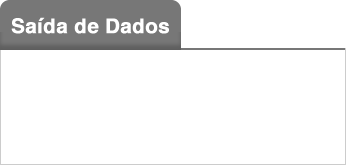
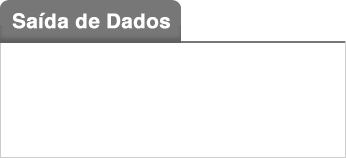
exclamação saindo de cena

Changed region(s): [[0.0289, 0.0759, 0.4913, 0.2025], [0.0, 0.2532, 1.0, 0.3038]]

diff --git a/ProjetoFinal/SpriteCondicaoNode.m b/ProjetoFinal/SpriteCondicaoNode.m
@@ -16,7 +16,7 @@
         tipoCondicao = tipo;
         [self montaSprite:tipo];
         
-        [self texturaDeVerificando:YES];
+        //[self texturaDeVerificando:YES];
     }
     return self;
 }
@@ -63,7 +63,8 @@
 
 -(void)mostraExclamacao:(BOOL)status{
     
-    if (![tipoCondicao isEqualToString:@"senao"]) { // Só adiciona exclamação caso o tipo seja diferente de "senao"
+    // Só adiciona exclamação caso o tipo seja diferente de "senao"
+    if (![tipoCondicao isEqualToString:@"senao"]) {
         if (status) {
             [self addChild:spriteExclamacao];
         }else{
@@ -81,6 +82,7 @@
     
     spriteOperador = [[SpriteOperadorCondicional alloc] initWithValores:valor1 operador:operador valor2:valor2 resultado:resultado];
     
+    spriteOperador.myDelegate = self;
     
     CGPoint posicao;
     
@@ -98,11 +100,8 @@
     
 }
 
--(void)pisca{
-    
-    //Roda a SKAction que pisca
-    
-    [self runAction:animacaoPiscar];
+-(void)verificacaoFinalizada{
+    [self mostraExclamacao:NO];
 }
 
 
@@ -117,27 +116,18 @@
 -(void)texturaDeVerificando:(BOOL)status{
     SKTexture *textura;
     
+    //VERIFICA
     if (status) {
-        if ([tipoCondicao isEqualToString:@"se"]) {
-            textura = [SKTexture textureWithImageNamed:@"se-verde.png"];
-        }else if ([tipoCondicao isEqualToString:@"senaoSe"]){
-            textura = [SKTexture textureWithImageNamed:@"senaoSe-verde.png"];
-        }else{
-            textura = [SKTexture textureWithImageNamed:@"senao-verde.png"];
-        }
+        textura = [SKTexture textureWithImageNamed:[NSString stringWithFormat:@"%@-verde.png", tipoCondicao]];
+        
     }else{
-        if ([tipoCondicao isEqualToString:@"se"]) {
-            textura = [SKTexture textureWithImageNamed:@"se-normal.png"];
-        }else if ([tipoCondicao isEqualToString:@"senaoSe"]){
-            textura = [SKTexture textureWithImageNamed:@"senaoSe-normal.png"];
-        }else{
-            textura = [SKTexture textureWithImageNamed:@"senao-normal.png"];
-        }
+        textura = [SKTexture textureWithImageNamed:[NSString stringWithFormat:@"%@-normal.png", tipoCondicao]];
     }
     
     
     [self setTexture:textura];
 }
+
 
 -(void)iniciarTeste{
     [self mostraExclamacao:YES];
@@ -147,6 +137,7 @@
 -(NSString*)retornaTextoASerExibido{
     return [spriteOperador retornaTextoASerExibido];
 }
+
 -(BOOL)retornaVeracidade{
     return [spriteOperador retornaVeracidade];
 }

diff --git a/ProjetoFinal/SpriteOperadorCondicional.m b/ProjetoFinal/SpriteOperadorCondicional.m
@@ -44,7 +44,6 @@
 -(void)inicializaSpriteValores:(NSString*)valor1 valor2:(NSString*)valor2{
     spriteValores = [[OperadorValoresNode alloc] initWithValor1:valor1 valor2:valor2];
     [spriteValores setTexture:[SKTexture textureWithImageNamed:@"parte-valores1.png"]];
-//    [spriteValores runAction:[spriteValores getAnimacaoExpandir]];
     [spriteValores iniciarAnimacao];
     [spriteResultado addChild:spriteValores];
 }
@@ -59,22 +58,31 @@
 
 
 -(void)iniciarAnimacao{
+    //CRIA UM VETOR COM OS SPRITES DE VERIFICAÇÃO DOS VALORES DO LADO ESQUERDO, LOGO APÓS É CRIADA A ANIMAÇÃO DESTE VETOR
     NSArray *texturas = [NSArray arrayWithObjects:[SKTexture textureWithImageNamed:@"valor1-amarelo.png"], spriteValores.texture, nil];
     SKAction *piscaEsquerda = [SKAction animateWithTextures:texturas timePerFrame:0.3];
     
+    //CRIA UM VETOR COM OS SPRITES DE VERIFICAÇÃO DOS VALORES DO LADO DIREITO, LOGO APÓS É CRIADA A ANIMAÇÃO DESTE VETOR
     texturas = [NSArray arrayWithObjects:[SKTexture textureWithImageNamed:@"valor2-amarelo.png"], spriteValores.texture, nil];
     SKAction *piscaDireita = [SKAction animateWithTextures:texturas timePerFrame:0.3];
     
+    //O PRIMEIRO BLOCO INICIA A ANIMAÇÃO DO LADOR ESQUERDO POR 4 VEZES
     [spriteValores runAction:[SKAction repeatAction:piscaEsquerda count:4] completion:^{
+        //O SEGUNDO BLOCO INICIA A ANIMAÇÃO DO LADOR DIREITO POR 4 VEZES
         [spriteValores runAction:[SKAction repeatAction:piscaDireita count:4] completion:^{
             [spriteValores removeAllActions];
-
+            
+            //VERIFICA SE A CONDIÇÃO É VERDADEIRA PARA QUE SEJA COLOCADA A TEXTURA QUE INDICA QUE É VERDADEIRO
             if(verdadeiro){
                 [spriteValores setTexture:[SKTexture textureWithImageNamed:@"valores-verdadeiro.png"]];
             }
+            
+            //AVISA PARA O DELEGATE QUE A VERIFICAÇÃO FOI FINALIZADA
+            [[self myDelegate] verificacaoFinalizada];
         }];
     }];
 }
+
 
 -(void)verificaSeEVerdadeiro:(NSString*)valor1 eOperador:(NSString*)operador eValor2:(NSString*)valor2{
     Calculador *calculador = [[Calculador alloc] init];
@@ -92,6 +100,7 @@
 -(BOOL)retornaVeracidade{
     return verdadeiro;
 }
+
 
 -(NSString*)retornaTextoASerExibido{
     return textoASerExibido;

diff --git a/ProjetoFinal/SaidaDeDados.m b/ProjetoFinal/SaidaDeDados.m
@@ -13,14 +13,14 @@
 -(id)init{
     if (self = [super init]) {
         textoExibido = [SKLabelNode labelNodeWithFontNamed:@"Helvetica"];
-        [textoExibido setText:@">"];
+        //[textoExibido setText:@">"];
         [textoExibido setFontSize:18];
         [textoExibido setHorizontalAlignmentMode:SKLabelHorizontalAlignmentModeLeft];
         [textoExibido setPosition:CGPointMake(-150, 0)];
         [textoExibido setFontColor:[UIColor blackColor]];
         SKTexture *textura = [SKTexture textureWithImageNamed:@"saida-texto.png"];
         [self setTexture:textura];
-        [self setSize:CGSizeMake(346, 165)];
+        [self setSize:CGSizeMake(346, 158)];
         [self addChild:textoExibido];
         
     }
@@ -29,6 +29,6 @@
 
 
 -(void)exibeTexto:(NSString*)texto{
-    [textoExibido setText:[NSString stringWithFormat:@"> %@",texto]];
+    [textoExibido setText:[NSString stringWithFormat:@"%@",texto]];
 }
 @end

diff --git a/ProjetoFinal/SpriteOperadorCondicional.h b/ProjetoFinal/SpriteOperadorCondicional.h
@@ -12,6 +12,13 @@
 #import "OperadorResultadoNode.h"
 #import "Calculador.h"
 
+//PROTOCOLO QUE AVISA PARA A CLASE SpriteCondicaoNode QUANDO A VERIFICAÇÃO DOS VALORES FOI FINALIZADA
+@protocol SpriteOperadorCondicionalDelegate <NSObject>
+
+-(void)verificacaoFinalizada;
+
+@end
+
 @interface SpriteOperadorCondicional : SKSpriteNode
 {
     OperadorNode *spriteOperador;
@@ -20,6 +27,8 @@
     BOOL verdadeiro;
     NSString* textoASerExibido;
 }
+
+@property id <SpriteOperadorCondicionalDelegate> myDelegate;
 
 -(id)initWithValores:(NSString*)valor1 operador:(NSString*)operador valor2:(NSString*)valor2 resultado:(NSString*)resultado;
 -(void)iniciarAnimacao;

diff --git a/ProjetoFinal/AnimaCondSimples.m b/ProjetoFinal/AnimaCondSimples.m
@@ -22,8 +22,8 @@
 
 
 -(void)inicializarClasse{
+    [self setBackgroundColor:[SKColor whiteColor]];
     [self inicializaCondicaoNode];
-    [self setBackgroundColor:[UIColor whiteColor]];
     
     //DEFINE OS VALORES, OPERADOR E RESULTADO
     Gerador *gerador = [[Gerador alloc] init];
@@ -47,9 +47,9 @@
 
 -(void)inicializaSaidadeDados{
     console = [[SaidaDeDados alloc] init];
-    [console setPosition:CGPointMake(580, 90)];
+    [console setPosition:CGPointMake(594, 83)];
     [self addChild:console];
-    [console exibeTexto:@">"];
+    //[console exibeTexto:@">"];
     
     [condicaoNode iniciarTeste];
 }

diff --git a/ProjetoFinal/ConteudoViewController.m b/ProjetoFinal/ConteudoViewController.m
@@ -63,7 +63,7 @@
     [[self navigationItem] setTitle:gerenciador.retornaNomeAssuntoAtual];
     
     //CRIO UMA SKVIEW PARA INSERIR A SKSCENE
-    viewAnimacao = [[SKView alloc] initWithFrame:CGRectMake(0, 65, self.view.frame.size.width, 600)];
+    viewAnimacao = [[SKView alloc] initWithFrame:CGRectMake(0, 65, self.view.frame.size.width, 609)];
     
     //INSTANCIO A SKSCENE INICIAL DO ASSUNTO ATUAL
     SKScene *cena = [gerenciador retornaAnimacaoNumero:1];

diff --git a/ProjetoFinal/SpriteCondicaoNode.h b/ProjetoFinal/SpriteCondicaoNode.h
@@ -10,12 +10,13 @@
 #import "SpriteOperadorCondicional.h"
 #import "Calculador.h"
 
-@interface SpriteCondicaoNode : SKSpriteNode
+
+
+@interface SpriteCondicaoNode : SKSpriteNode <SpriteOperadorCondicionalDelegate>
 {
     SKSpriteNode *spriteExclamacao;
     NSString *tipoCondicao;
     SpriteOperadorCondicional *spriteOperador;
-    SKAction *animacaoPiscar;
 }
 @property BOOL verdadeiro;
 
